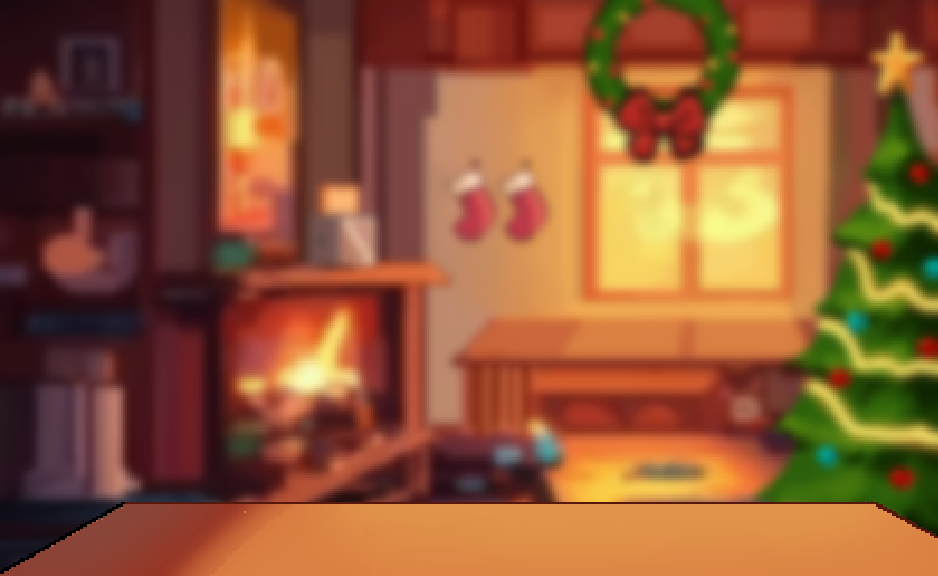
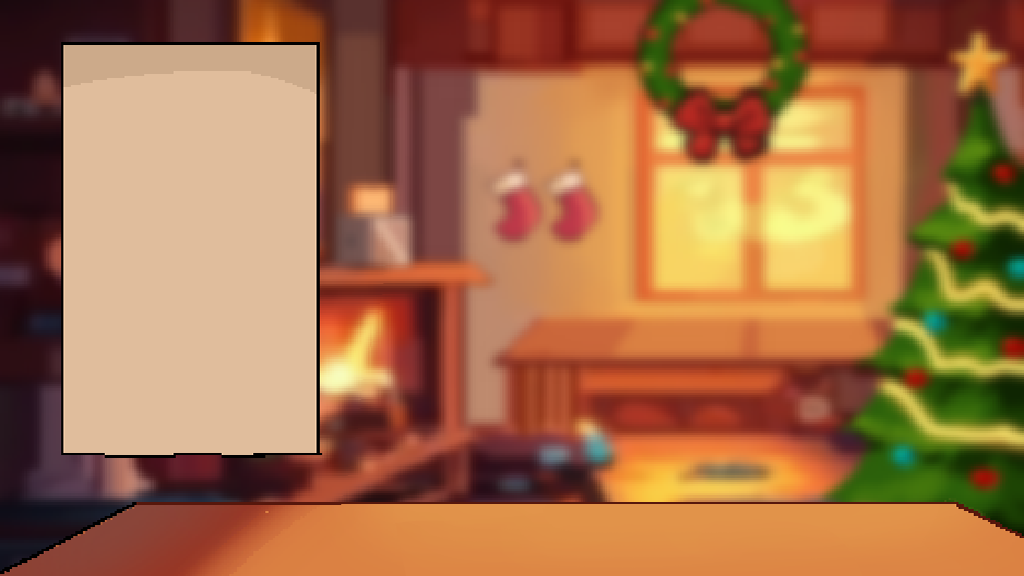
bakescene transition back to map

Changed region(s): [[0.0618, 0.0625, 0.3401, 0.8125]]

diff --git a/bakeryScene.js b/bakeryScene.js
@@ -14,16 +14,6 @@ var animData = {
         path: './data/clockAnimation.json',
 }
 
-// const bakeryBackgroundImage = new Image()
-// bakeryBackgroundImage.src = './img/kitchen.png'
-// const bakeryBackground = new Sprite({position: {
-//     x:0, 
-//     y:0
-// },
-//     image: bakeryBackgroundImage, 
-//     animate:true
-// })
-
 let bakeryAnimationId
 
 function animateBakery(){
@@ -74,6 +64,10 @@ function animateBakery(){
         gsap.to('#bakeryForeground', {
             opacity:'0'
         })  
+        document.getElementById('bakeryBackgroundImageBlank').style.opacity = 1;
+        gsap.to('#bakeryBackgroundImageAfterMixing', {
+            opacity:'0'
+        })  
         document.getElementById('bakeButton').addEventListener('click', () => {
             console.log('bakeButton clicked');
             bakeCookies(); 
@@ -90,6 +84,7 @@ function bakeCookies(){
             onComplete(){ 
             document.getElementById('bakeButton').style.display = 'none';
             document.getElementById('clockAnimation').style.display = 'block';
+            document.getElementById('bakeryBackgroundImageWithCookies').style.opacity = '1';
             anim = lottie.loadAnimation(animData);
             
             gsap.to('#clockAnimation',{
@@ -97,12 +92,44 @@ function bakeCookies(){
             })
             anim.addEventListener('complete', function() {
                 gsap.to('#clockAnimation', {
-                    opacity:0
+                    opacity:0,
+                    onComplete(){
+                        gsap.to('#bakeryBackgroundImageBlank',{opacity:0,
+                            onComplete(){
+                                document.querySelector('#bakeStep').innerHTML = "&#9745; Bake Cookies!"; 
+                                audio.victory.play() 
+                                setTimeout(doneBaking, 2000)
+                            }
+                        })
+                    }
                 })
               });
             }        
     });
     }    
+}
+
+function doneBaking(){ 
+    gsap.to('#overlappingDiv', {
+        opacity:1,
+        onComplete: () => {
+            cancelAnimationFrame(animateBakery)
+            animate()
+            document.getElementById('recipe').style.display= 'none'
+            gsap.to('#overlappingDiv',{
+                opacity:0
+            }) 
+            gsap.to('#bakeryBackgroundImageWithCookies',{
+                opacity:0
+            }) 
+            battle.initiated = false
+            doBakeCookies = true
+            audio.Map.play()
+            gsap.to('#quest', {
+                opacity: 1
+            })
+        }
+    })
 }
 
 function mixBowl(){
@@ -384,5 +411,5 @@ function pourFlour() {
 
 
 
-animateBakery()
+// animateBakery()
  

diff --git a/index.html b/index.html
@@ -145,6 +145,8 @@ transform: translate(-50%, -50%);">
 
       <!-- baking stuff --> 
        <div id="backgroundImagesKitchen">  
+        <img id="bakeryBackgroundImageWithCookies" style="opacity:0;pointer-events: none; position: absolute; top:0; right:0; left:0; bottom:0;" src="./img/kitchenWithCookies.png">
+        <img id="bakeryBackgroundImageBlank" style="opacity:0;pointer-events: none; position: absolute; top:0; right:0; left:0; bottom:0;" src="./img/kitchenBlank.png">
        <img id="bakeryBackgroundImageAfterMixing" style="opacity:0;pointer-events: none; position: absolute; top:0; right:0; left:0; bottom:0;" src="./img/kitchenAfterMixing.png">
        <img id="bakeryBackgroundImageAfterChocolateChips" style="opacity:0;pointer-events: none; position: absolute; top:0; right:0; left:0; bottom:0;" src="./img/kitchenAfterChocolateChips.png">
        <img id="bakeryBackgroundImageAfterEgg" style="opacity:0;pointer-events: none; position: absolute; top:0; right:0; left:0; bottom:0;" src="./img/kitchenAfterEgg.png">
@@ -181,6 +183,7 @@ transform: translate(-50%, -50%);">
       <img id="butterImage" style="opacity: 1; position: absolute; bottom: 10px; right: 90px; z-index: 4" src="./img/butter.png">
       <img id="chocolateChipsImage" style="opacity: 1; position: absolute; bottom: 40px; left: 310px; z-index: 5" src="./img/chocolateChips.png">
       <img id="eggImage" style="opacity: 1; position: absolute; bottom: 20px; left: 380px; z-index: 6" src="./img/egg.png">  
+      <img id="bakedCookies" style="opacity:0; display:none;pointer-events: none; position: absolute; top:0; right:0; left:0; bottom:0;z-index: 10;" src="./img/kitchenForeground.png">
     </div>  
     <div style="position: absolute; width: 100%; height: 100%; pointer-events: none; z-index: 0;">
       <button id="bakeButton" 

diff --git a/index.js b/index.js
@@ -698,7 +698,7 @@ function animate() {
     }
     
 }
-// animate()
+animate()
  
 //Tracks last key pressed for movement direction
 let lastKey =''
